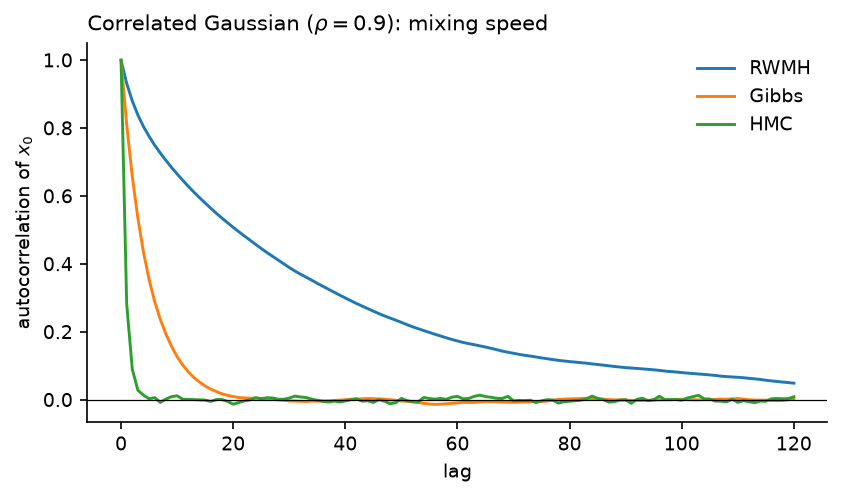
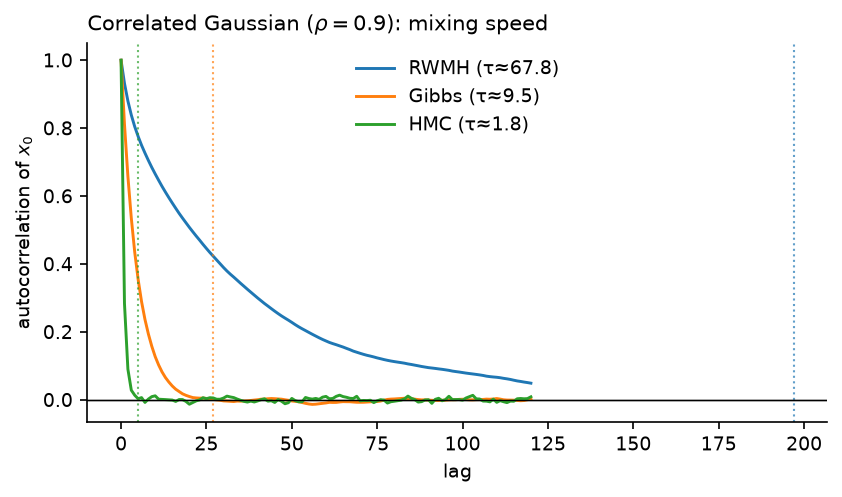
diagnostics: autocorrelation-plot helper marking the Geyer cutoff + tau
autocorr_summary(x) returns the rho_k curve plus the initial-monotone-sequence
cutoff_lag and tau/ess (all from the full-length autocorrelation, so they equal
integrated_autocorr_time/ess exactly); plot_autocorrelation(x, ax) draws it,
marking the truncation lag and annotating tau so the figure shows why the ESS
is what it is. Geyer cutoff logic factored into a shared _geyer_tau helper.
Wired into validate_exact's mixing-speed figure. matplotlib imported lazily so
the numpy-only import path (and CI) is unaffected; the drawing test is
importorskip-guarded, the data test runs in CI. +2 tests.

diff --git a/mcmc/diagnostics.py b/mcmc/diagnostics.py
@@ -46,6 +46,28 @@ def autocorrelation(x, max_lag=None):
     return acov / acov[0]
 
 
+def _geyer_tau(rho):
+    """Geyer's initial monotone positive sequence estimate of tau from rho_k.
+
+    Returns (tau, cutoff_lag): tau >= 1 and the last lag included in the sum
+    (the pair sums Gamma_m = rho_{2m} + rho_{2m+1} are summed for m < cutoff,
+    covering lags 0 .. 2*cutoff-1). Shared by integrated_autocorr_time and
+    autocorr_summary so the plotted cutoff is exactly the one tau uses.
+    """
+    n_pairs = len(rho) // 2
+    gamma = rho[0 : 2 * n_pairs : 2] + rho[1 : 2 * n_pairs : 2]
+    # initial positive sequence: truncate at the first non-positive pair
+    positive = np.nonzero(gamma <= 0)[0]
+    cutoff = int(positive[0]) if len(positive) else len(gamma)
+    g = gamma[:cutoff]
+    # monotone envelope: pair sums of a reversible chain are non-increasing
+    g = np.minimum.accumulate(g) if len(g) else g
+    # sum of pair sums counts rho_0 = 1 once: tau = 2 * sum(Gamma) - 1
+    tau = max(1.0, 2.0 * float(np.sum(g)) - 1.0)
+    cutoff_lag = max(0, 2 * cutoff - 1)
+    return tau, cutoff_lag
+
+
 def integrated_autocorr_time(x):
     """Integrated autocorrelation time tau via Geyer's initial monotone
     positive sequence.
@@ -54,17 +76,64 @@ def integrated_autocorr_time(x):
     Gamma_m = rho_{2m} + rho_{2m+1} first fail to be positive, after
     enforcing monotone non-increase. Returns tau >= 1.
     """
-    rho = autocorrelation(x)
-    n_pairs = len(rho) // 2
-    gamma = rho[0 : 2 * n_pairs : 2] + rho[1 : 2 * n_pairs : 2]
-    # initial positive sequence: truncate at the first non-positive pair
-    positive = np.nonzero(gamma <= 0)[0]
-    cutoff = positive[0] if len(positive) else len(gamma)
-    g = gamma[:cutoff]
-    # monotone envelope: pair sums of a reversible chain are non-increasing
-    g = np.minimum.accumulate(g) if len(g) else g
-    # sum of pair sums counts rho_0 = 1 once: tau = 2 * sum(Gamma) - 1
-    return max(1.0, 2.0 * float(np.sum(g)) - 1.0)
+    tau, _ = _geyer_tau(autocorrelation(x))
+    return tau
+
+
+def autocorr_summary(x, max_lag=None):
+    """Everything an autocorrelation plot needs, as pure-NumPy data.
+
+    Returns a dict with the lags and normalized autocorrelations rho_k (out to
+    ``max_lag``), the Geyer initial-monotone-sequence ``cutoff_lag`` beyond
+    which lags are discarded as noise, and the resulting ``tau``/``ess``. The
+    curve is truncated for display but ``tau``/``ess``/``cutoff_lag`` are
+    computed from the full-length autocorrelation, so they match
+    integrated_autocorr_time / ess exactly. Kept separate from the drawing so
+    it stays testable without a plotting backend.
+    """
+    x = np.atleast_2d(np.asarray(x, dtype=float))
+    m, n = x.shape
+    rho_full = autocorrelation(x)
+    tau, cutoff_lag = _geyer_tau(rho_full)
+    if max_lag is None:
+        max_lag = min(len(rho_full) - 1, 4 * int(np.ceil(tau)) + 10)
+    max_lag = min(max_lag, len(rho_full) - 1)
+    return {
+        "lags": np.arange(max_lag + 1),
+        "rho": rho_full[: max_lag + 1],
+        "cutoff_lag": cutoff_lag,
+        "tau": tau,
+        "ess": m * n / tau,
+    }
+
+
+def plot_autocorrelation(x, ax=None, max_lag=None, label=None, color=None,
+                         show_cutoff=True):
+    """Draw the autocorrelation function rho_k of a scalar chain(s).
+
+    Marks the Geyer truncation lag (where tau's sum stops) and annotates the
+    estimated tau/ESS, so the figure shows *why* the reported ESS is what it
+    is rather than just the raw curve. matplotlib is imported lazily -- it is
+    an experiments-only dependency, not required to import mcmc.diagnostics.
+    Returns the Axes.
+    """
+    import matplotlib.pyplot as plt
+
+    s = autocorr_summary(x, max_lag=max_lag)
+    if ax is None:
+        _, ax = plt.subplots(figsize=(5.5, 3.2), constrained_layout=True)
+    line, = ax.plot(s["lags"], s["rho"], lw=1.4, color=color,
+                    label=(label if label is None
+                           else f"{label} (τ≈{s['tau']:.1f})"))
+    if show_cutoff:
+        ax.axvline(s["cutoff_lag"], color=line.get_color(), ls=":", lw=1,
+                   alpha=0.7)
+    ax.axhline(0, color="k", lw=0.6)
+    ax.set_xlabel("lag")
+    ax.set_ylabel("autocorrelation")
+    if label is not None:
+        ax.legend()
+    return ax
 
 
 def ess(x):

diff --git a/tests/test_diagnostics.py b/tests/test_diagnostics.py
@@ -6,8 +6,16 @@ form -- a ground truth for the ESS estimator itself.
 """
 
 import numpy as np
+import pytest
 
-from mcmc.diagnostics import autocorrelation, ess, integrated_autocorr_time, split_rhat
+from mcmc.diagnostics import (
+    autocorr_summary,
+    autocorrelation,
+    ess,
+    integrated_autocorr_time,
+    plot_autocorrelation,
+    split_rhat,
+)
 
 
 def ar1(rho, m, n, rng):
@@ -52,3 +60,35 @@ def test_rhat_flags_unmixed_chains():
     x = rng.standard_normal((4, 5_000))
     x += np.array([0.0, 0.0, 3.0, 3.0])[:, None]  # two chains stuck elsewhere
     assert split_rhat(x) > 1.5
+
+
+def test_autocorr_summary_matches_the_scalar_diagnostics():
+    # The plot helper's data must agree with the standalone estimators, and its
+    # curve must be the same autocorrelation, just truncated for display.
+    rng = np.random.default_rng(5)
+    x = ar1(0.85, 4, 40_000, rng)
+    s = autocorr_summary(x, max_lag=30)
+    assert s["tau"] == integrated_autocorr_time(x)
+    assert s["ess"] == ess(x)
+    np.testing.assert_allclose(s["rho"], autocorrelation(x, max_lag=30))
+    assert s["rho"][0] == pytest.approx(1.0)
+    # a positively-correlated chain truncates well past lag 0; the cutoff is
+    # computed from the full autocorrelation, not the display window, so it may
+    # exceed max_lag.
+    assert s["cutoff_lag"] > 0
+    # more correlation -> later cutoff and larger tau than a near-iid chain
+    s_iid = autocorr_summary(rng.standard_normal((4, 40_000)))
+    assert s["tau"] > s_iid["tau"]
+    assert s["cutoff_lag"] >= s_iid["cutoff_lag"]
+
+
+def test_plot_autocorrelation_draws_the_summary_curve():
+    plt = pytest.importorskip("matplotlib.pyplot")  # experiments-only dep
+    rng = np.random.default_rng(6)
+    x = ar1(0.7, 4, 20_000, rng)
+    s = autocorr_summary(x, max_lag=25)
+    ax = plot_autocorrelation(x, max_lag=25, label="AR(1)")
+    line = ax.get_lines()[0]
+    np.testing.assert_allclose(line.get_ydata(), s["rho"])
+    np.testing.assert_array_equal(line.get_xdata(), s["lags"])
+    plt.close("all")

diff --git a/experiments/validate_exact.py b/experiments/validate_exact.py
@@ -20,7 +20,12 @@ Run:  python experiments/validate_exact.py
 import numpy as np
 
 from common import plt, print_table, savefig
-from mcmc.diagnostics import autocorrelation, ess, integrated_autocorr_time, split_rhat
+from mcmc.diagnostics import (
+    ess,
+    integrated_autocorr_time,
+    plot_autocorrelation,
+    split_rhat,
+)
 from mcmc.gibbs import gibbs, make_gaussian_gibbs_updates
 from mcmc.hmc import hmc
 from mcmc.metropolis import random_walk_metropolis
@@ -94,16 +99,14 @@ def part_a_gaussian():
     axes[-1].set_xlabel("iteration")
     savefig(fig, "gaussian_traces.png")
 
-    # autocorrelation figure
+    # autocorrelation figure: the diagnostics helper draws each curve and marks
+    # the Geyer truncation lag (dotted) where tau's sum stops, so the plot shows
+    # why each sampler's ESS is what it is, not just the raw decay.
     fig, ax = plt.subplots(figsize=(5.5, 3.2), constrained_layout=True)
     for name, (res, _) in runs.items():
-        rho = autocorrelation(res.samples[:, :, 0], max_lag=120)
-        ax.plot(rho, label=name, lw=1.4)
-    ax.axhline(0, color="k", lw=0.6)
-    ax.set_xlabel("lag")
+        plot_autocorrelation(res.samples[:, :, 0], ax=ax, max_lag=120, label=name)
     ax.set_ylabel(r"autocorrelation of $x_0$")
     ax.set_title(r"Correlated Gaussian ($\rho=0.9$): mixing speed", loc="left")
-    ax.legend()
     savefig(fig, "gaussian_autocorr.png")
     return rows
 
